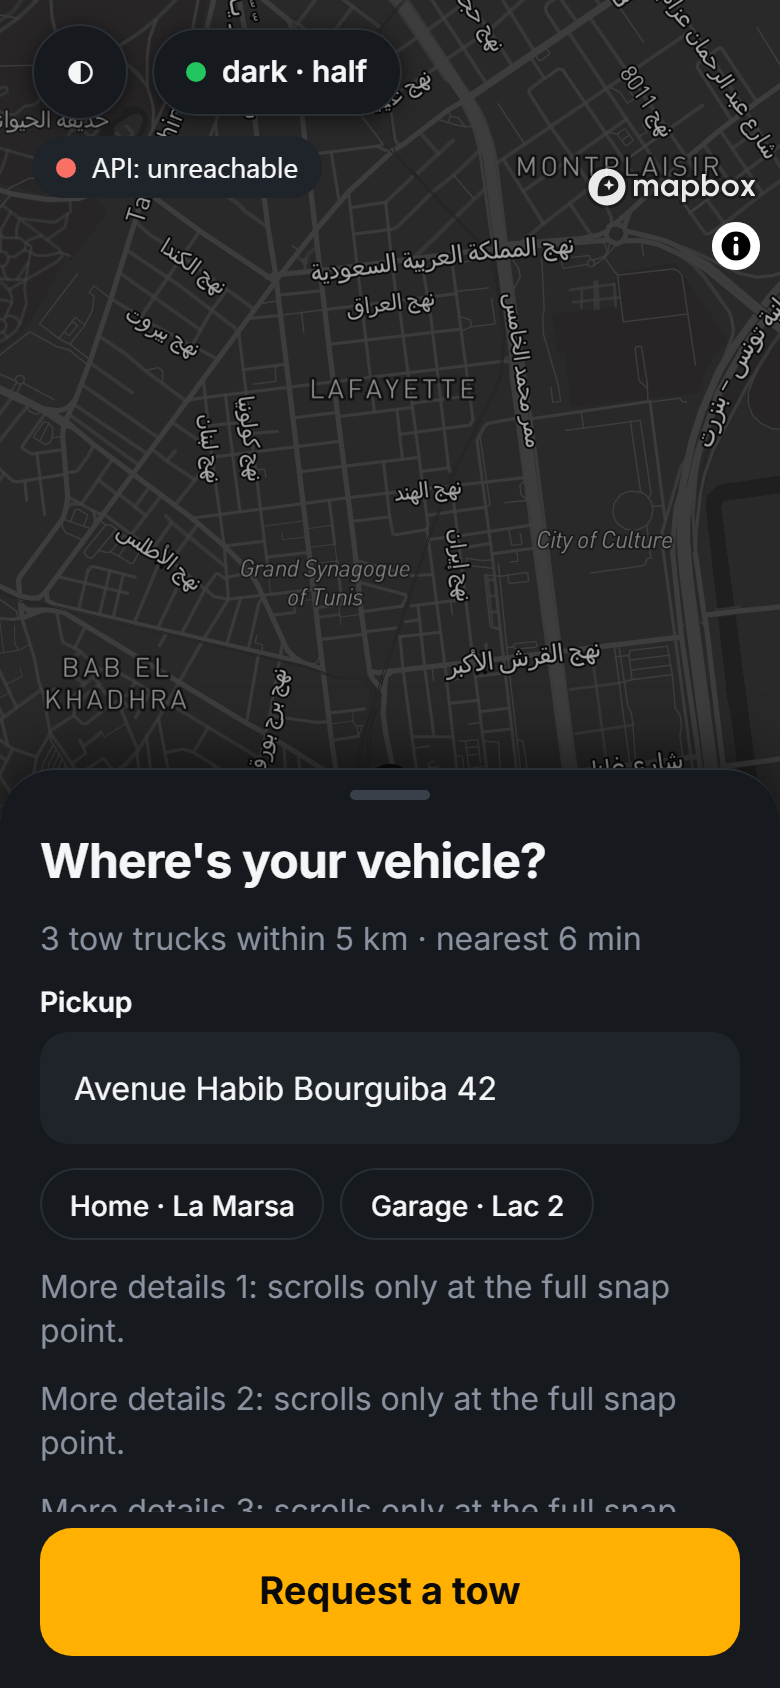
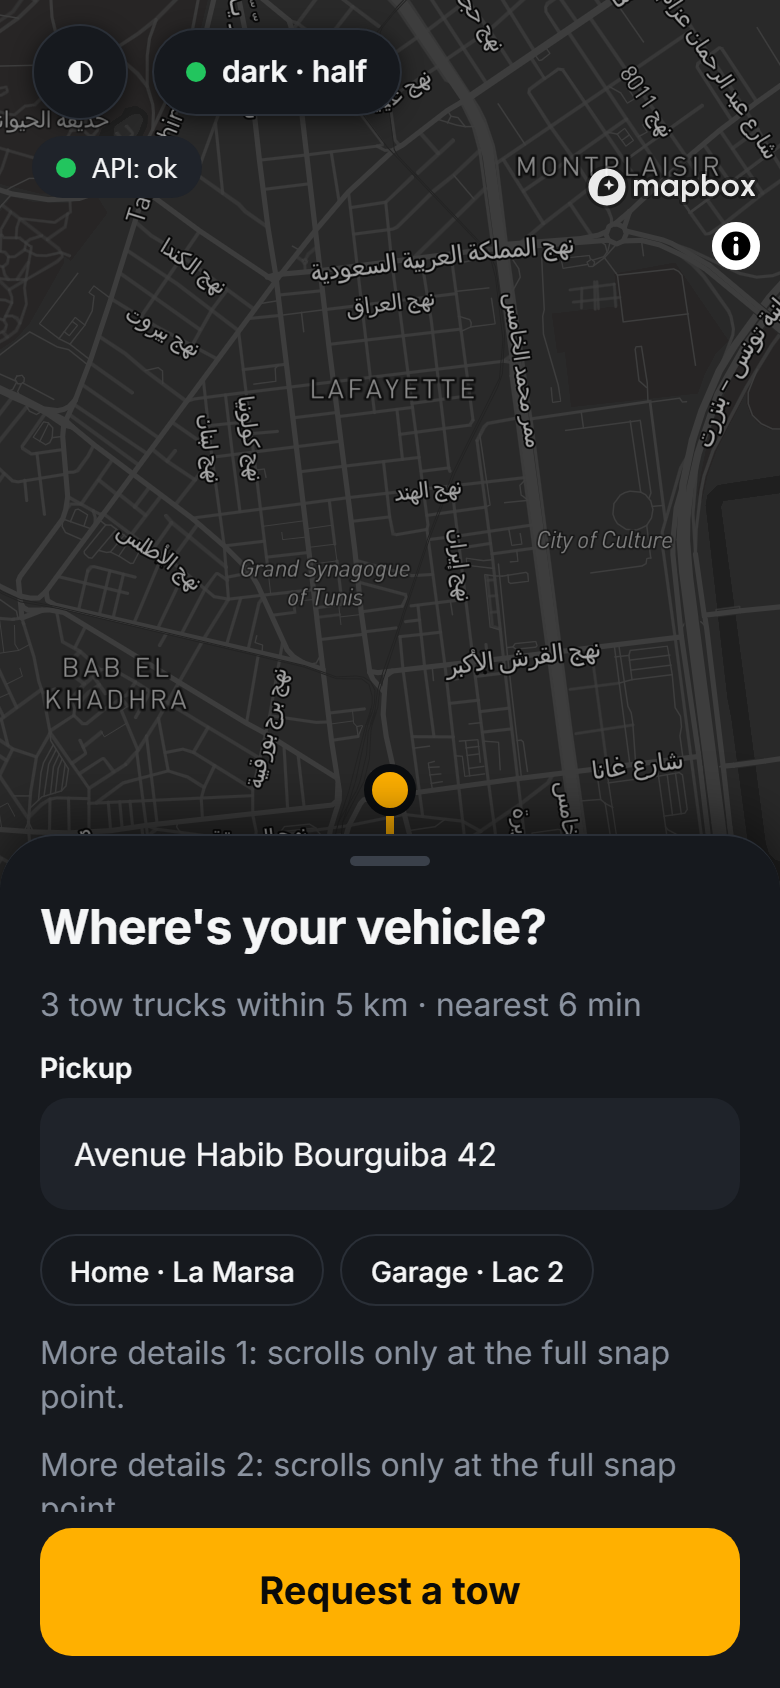
Map sheet: full stops below the top controls, ignore stale release velocity
Claude-Session: https://claude.ai/code/session_01G2A7wWeUNYBWRuBuMn3CWv

diff --git a/e2e/web/map-shell.spec.ts b/e2e/web/map-shell.spec.ts
@@ -26,8 +26,12 @@ async function sheetHeight(page: Page): Promise<number> {
   return last;
 }
 
-/** A slow drag that ends at rest, so the sheet settles on the nearest snap point and does not fling. */
-async function drag(page: Page, dy: number) {
+/**
+ * A drag with the mouse, in small steps like a hand. `restMs` is how long the
+ * pointer rests before it is released; the sheet must then settle on the nearest
+ * snap point, not on a stale velocity.
+ */
+async function drag(page: Page, dy: number, restMs = 150) {
   const grabber = (await page.getByTestId('map-sheet-grabber').boundingBox())!;
   const x = grabber.x + grabber.width / 2;
   const y = grabber.y + grabber.height / 2;
@@ -38,16 +42,14 @@ async function drag(page: Page, dy: number) {
     await page.mouse.move(x, y + (dy * i) / steps);
     await page.waitForTimeout(25);
   }
-  await page.waitForTimeout(250);
-  await page.mouse.move(x, y + dy + Math.sign(dy));
-  await page.waitForTimeout(250);
+  await page.waitForTimeout(restMs);
   await page.mouse.up();
 }
 
 async function footerInView(page: Page) {
   const box = (await page.getByTestId('map-sheet-footer').boundingBox())!;
   expect(box.y).toBeGreaterThanOrEqual(0);
-  expect(box.y + box.height).toBeLessThanOrEqual(844);
+  expect(box.y + box.height).toBeLessThanOrEqual(page.viewportSize()!.height);
 }
 
 test('the sheet drags between snap points and scrolls only at full', async ({ page }) => {
@@ -105,3 +107,38 @@ test('switching the theme restyles the same map without recreating it', async ({
   expect(await canvas.evaluate((el) => (el as HTMLElement & { keep?: boolean }).keep)).toBe(true);
   expect(errors).toEqual([]);
 });
+
+test('releasing after a pause settles on the nearest snap point, not on a stale velocity', async ({
+  page,
+}) => {
+  await openShell(page, 'theme=light&snap=2');
+  await sheetHeight(page);
+
+  // 400px down from full is closest to half; a 300 ms rest must cancel the speed of the drag.
+  await drag(page, 400, 300);
+
+  await expect(page.getByText('light · half')).toBeVisible();
+});
+
+for (const size of [
+  { width: 390, height: 844 },
+  { width: 360, height: 640 },
+]) {
+  test(`the top controls stay clickable at the full snap point (${size.width}x${size.height})`, async ({
+    page,
+  }) => {
+    await page.setViewportSize(size);
+    await openShell(page, 'theme=light&snap=2');
+    await sheetHeight(page);
+    await expect(page.getByText('light · full')).toBeVisible();
+
+    const button = page.getByRole('button', { name: 'Appearance' });
+    const buttonBox = (await button.boundingBox())!;
+    const sheetBox = (await page.getByTestId('map-sheet-panel').boundingBox())!;
+    expect(sheetBox.y).toBeGreaterThanOrEqual(buttonBox.y + buttonBox.height);
+    // A real click fails if the sheet intercepts it.
+    await button.click({ timeout: 5_000 });
+    await expect(page.getByText('dark · full')).toBeVisible();
+    await footerInView(page);
+  });
+}

diff --git a/apps/mobile/src/ui/MapSheet.tsx b/apps/mobile/src/ui/MapSheet.tsx
@@ -24,7 +24,14 @@ import { SafeAreaInsetsContext } from 'react-native-safe-area-context';
 import { useTheme } from '@/theme/theme';
 
 import { Sheet } from './Sheet';
-import { keyboardOverlap, nearestSnap, resolveSnapHeights, type SnapPoint } from './sheet-snap';
+import {
+  availableHeight,
+  keyboardOverlap,
+  nearestSnap,
+  releaseVelocity,
+  resolveSnapHeights,
+  type SnapPoint,
+} from './sheet-snap';
 
 export type { SnapPoint } from './sheet-snap';
 
@@ -35,7 +42,7 @@ interface MapSheetProps {
    * action). The sheet never gets shorter than the handle plus the footer.
    */
   footer?: ReactNode;
-  /** Ascending. Default `['peek', 'half', 'full']` (30%, 55%, 100% of the space under the top inset). */
+  /** Ascending. Default `['peek', 'half', 'full']` (30%, 55%, 100% of the space under the top controls row). */
   snapPoints?: readonly SnapPoint[];
   /** The snap point shown first (index into `snapPoints`). Default: the lowest. */
   defaultIndex?: number;
@@ -81,7 +88,10 @@ export function MapSheet({
   const index = controlledIndex ?? ownIndex;
   const last = snapPoints.length - 1;
 
-  const available = Math.max(0, containerHeight - overlap - insets.top - t.space[2]);
+  const available = availableHeight(containerHeight, {
+    keyboardOverlap: overlap,
+    topInset: insets.top,
+  });
   const minHeight = HANDLE_AREA + footerHeight;
   const heights = useMemo(
     () => resolveSnapHeights(snapPoints, { available, minHeight }),
@@ -125,6 +135,7 @@ export function MapSheet({
   const indexRef = useRef(index);
   const scrollY = useRef(0);
   const dragStart = useRef(0);
+  const lastMove = useRef(0);
   const lastRef = useRef(last);
 
   const settle = useCallback(
@@ -170,10 +181,17 @@ export function MapSheet({
         const all = heightsRef.current;
         const low = all[0] ?? 0;
         const high = all[all.length - 1] ?? low;
+        lastMove.current = Date.now();
         height.setValue(Math.min(high, Math.max(low, dragStart.current - g.dy)));
       },
       onPanResponderRelease: (_e, g) => {
-        settleRef.current(nearestSnap(heightsRef.current, current.current, g.vy));
+        settleRef.current(
+          nearestSnap(
+            heightsRef.current,
+            current.current,
+            releaseVelocity(g.vy, Date.now() - lastMove.current),
+          ),
+        );
       },
       onPanResponderTerminate: () => {
         settleRef.current(nearestSnap(heightsRef.current, current.current, 0));

diff --git a/apps/mobile/src/ui/sheet-snap.test.ts b/apps/mobile/src/ui/sheet-snap.test.ts
@@ -1,4 +1,11 @@
-import { keyboardOverlap, nearestSnap, resolveSnapHeights } from './sheet-snap';
+import {
+  availableHeight,
+  CONTROLS_CLEARANCE,
+  keyboardOverlap,
+  nearestSnap,
+  releaseVelocity,
+  resolveSnapHeights,
+} from './sheet-snap';
 
 describe('resolveSnapHeights', () => {
   it('resolves names, percentages and pixels against the available height', () => {
@@ -45,5 +52,33 @@ describe('keyboardOverlap', () => {
 
   it('is zero when the window already resized for the keyboard', () => {
     expect(keyboardOverlap(500, 480)).toBe(0);
+  });
+});
+
+describe('availableHeight', () => {
+  it('stops below the top controls row', () => {
+    expect(availableHeight(844, { keyboardOverlap: 0, topInset: 47 })).toBe(
+      844 - 47 - CONTROLS_CLEARANCE,
+    );
+    expect(CONTROLS_CLEARANCE).toBeGreaterThanOrEqual(12 + 48);
+  });
+
+  it('shrinks with the keyboard and never goes negative', () => {
+    expect(availableHeight(844, { keyboardOverlap: 300, topInset: 0 })).toBe(
+      844 - 300 - CONTROLS_CLEARANCE,
+    );
+    expect(availableHeight(10, { keyboardOverlap: 0, topInset: 0 })).toBe(0);
+  });
+});
+
+describe('releaseVelocity', () => {
+  it('keeps the velocity of a release right after a move', () => {
+    expect(releaseVelocity(1.2, 16)).toBe(1.2);
+  });
+
+  it('ignores a stale velocity when the pointer rested before release', () => {
+    expect(releaseVelocity(1.2, 300)).toBe(0);
+    // Released at rest 400px down from full: the nearest snap, not a fling to peek.
+    expect(nearestSnap([200, 460, 836], 436, releaseVelocity(1.2, 300))).toBe(1);
   });
 });

diff --git a/apps/mobile/src/ui/sheet-snap.ts b/apps/mobile/src/ui/sheet-snap.ts
@@ -43,3 +43,26 @@ export function nearestSnap(heights: readonly number[], height: number, velocity
 export function keyboardOverlap(keyboardTop: number, containerBottom: number): number {
   return Math.max(0, containerBottom - keyboardTop);
 }
+
+/**
+ * Space under the top inset that the sheet never covers: the floating controls
+ * row of `MapScreen` (12px from the inset, 48px tall) plus a gap, so back and
+ * menu stay reachable at the full snap point.
+ */
+export const CONTROLS_CLEARANCE = 12 + 48 + 8;
+
+/** Height the sheet may grow to. */
+export function availableHeight(
+  containerHeight: number,
+  { keyboardOverlap: overlap, topInset }: { keyboardOverlap: number; topInset: number },
+): number {
+  return Math.max(0, containerHeight - overlap - topInset - CONTROLS_CLEARANCE);
+}
+
+/** A release velocity older than this (ms since the last move) is stale: the pointer was resting. */
+const STALE_MS = 100;
+
+/** The velocity to throw the sheet with: zero when the pointer paused before release. */
+export function releaseVelocity(vy: number, msSinceLastMove: number): number {
+  return msSinceLastMove > STALE_MS ? 0 : vy;
+}
